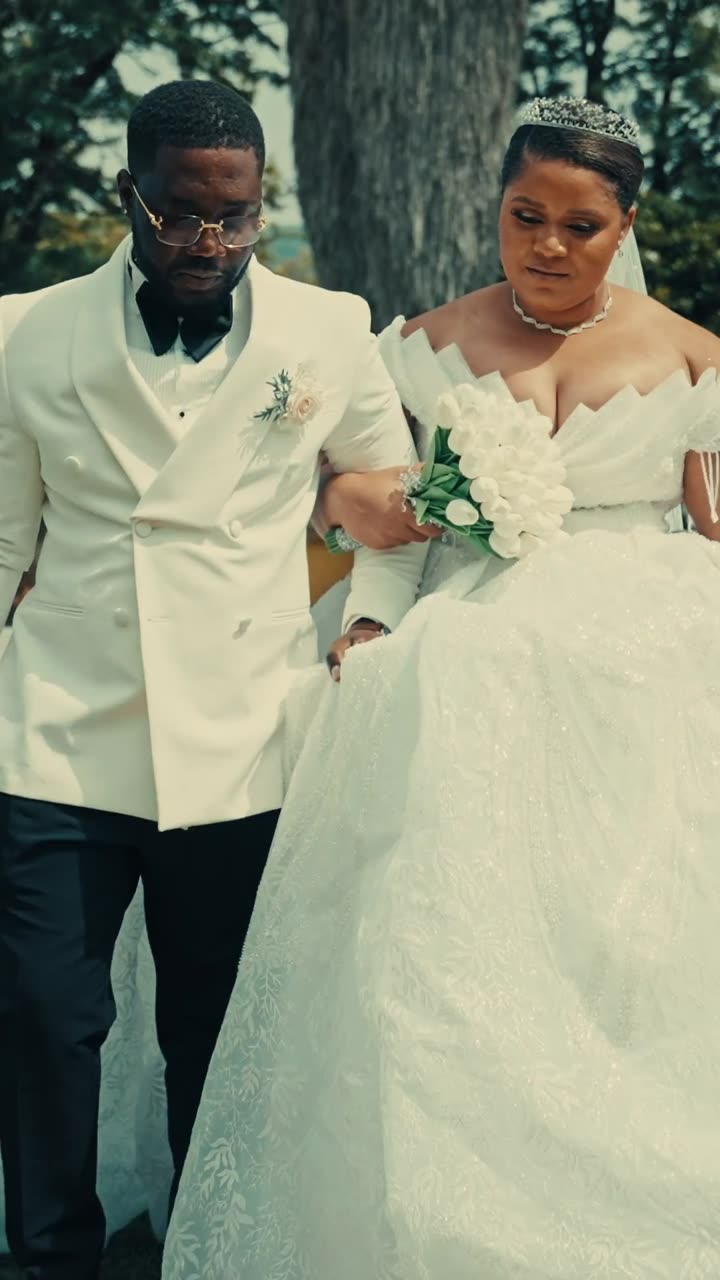
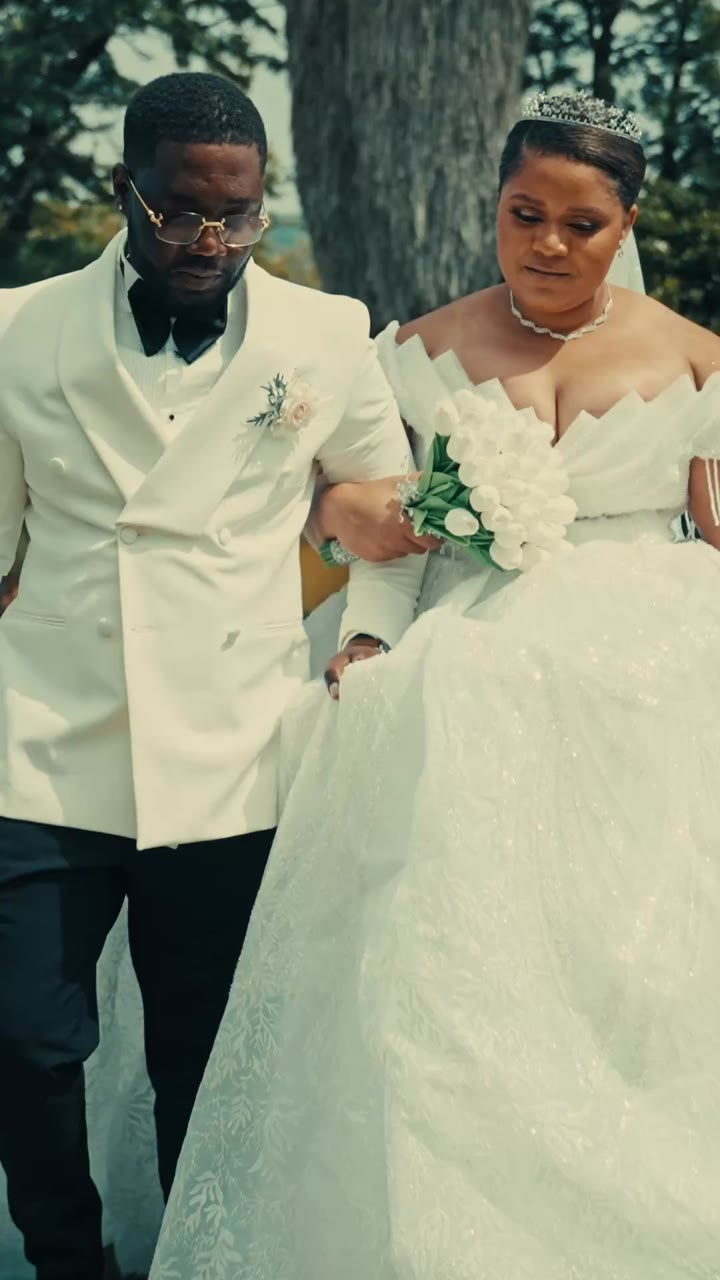
Accueil : image d'attente = toute première image de la vidéo, passage instantané (plus d'effet de tremblement)
Claude-Session: https://claude.ai/code/session_0148yhRoxsnYRNawY1bTJ35Y

diff --git a/website/index.html b/website/index.html
@@ -31,7 +31,7 @@
 <link rel="apple-touch-icon" href="/icons/apple-touch-icon.png">
 <script type="application/ld+json">{"@context":"https://schema.org","@type":"WebSite","name":"Apoca Drive","alternateName":["Apocadrive","Apoca Drive Filmmaker"],"url":"https://apocadrive.web.app/"}</script>
 <style>:root{padding-top:env(safe-area-inset-top,0px);padding-bottom:env(safe-area-inset-bottom,0px)}body{margin:0}img{max-width:100%}[hidden]{display:none!important}</style>
-<link rel="preload" as="image" href="accueil.jpg">
+<link rel="preload" as="image" href="accueil.jpg?v=2">
 </head>
 <body>
 <style>
@@ -111,6 +111,7 @@ nav.main .btn{padding:13px 20px;color:var(--paper)}
 .hbg img{animation:kb 22s ease-out both}
 .hbg img[data-p="1"]{animation:none}
 .hbg #hvid,.hbg #himg{opacity:0;transition:opacity 1.8s ease}.hbg #hvid.on,.hbg #himg.on{opacity:1}
+.hbg #hvid{transition-duration:.35s}
 .hero.wait .reveal{animation:none;opacity:0}
 @keyframes kb{from{transform:scale(1.08)}to{transform:scale(1)}}
 .hveil{position:absolute;inset:0;background:linear-gradient(180deg,rgba(14,13,11,.62) 0%,rgba(14,13,11,.12) 28%,rgba(14,13,11,.28) 55%,rgba(14,13,11,.86) 100%)}
@@ -1018,7 +1019,7 @@ const has = (o, k) => o && Object.prototype.hasOwnProperty.call(o, k);
 const val = (o, k, d) => has(o, k) && o[k] != null ? String(o[k]).trim() : d;
 const SITE = {content:{}, heroPhoto:"", aboutPhoto:"", films:undefined, avis:undefined};
 /* Vidéo d'accueil servie directement par le site (rapide). Une vidéo envoyée plus tard depuis l'appli la remplace. */
-const HERO_STATIC = {v: "accueil.mp4", poster: "accueil.jpg", ts: 1793079464015};
+const HERO_STATIC = {v: "accueil.mp4", poster: "accueil.jpg?v=2", ts: 1793079464015};
 SITE.heroVideo = HERO_STATIC.v; SITE.heroPoster = HERO_STATIC.poster;
 const digits = t => String(t||"").replace(/[^\d+]/g, "");
 const waNum = t => { let d = digits(t).replace(/^\+/, ""); if (d.startsWith("00")) d = d.slice(2); if (d.startsWith("0")) d = "33" + d.slice(1); return d; };
